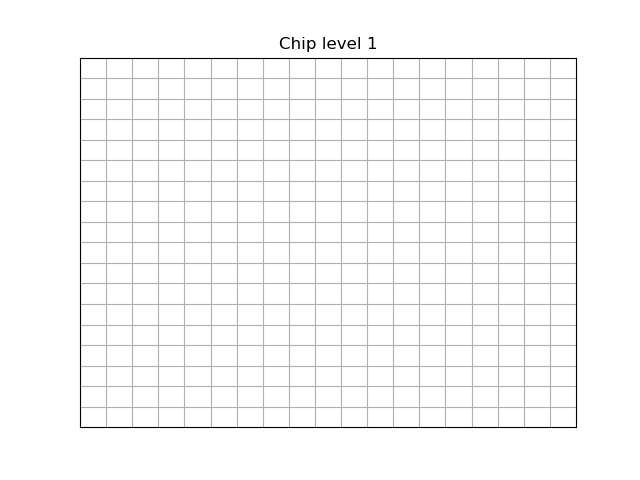
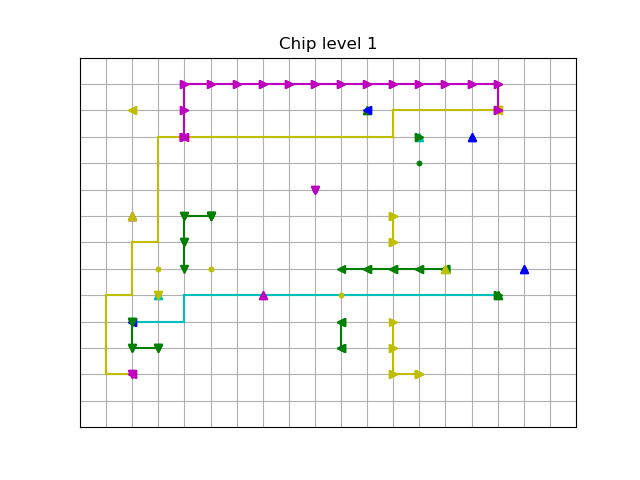
push

Changed region(s): [[0.125, 0.375, 0.9062, 0.8125], [0.125, 0.1562, 0.9062, 0.3438]]

diff --git a/main.py b/main.py
@@ -34,9 +34,9 @@ def main():
 					  "both" : (greedy, a_star)}
 	circuitsdict = {"small" : circuits.circuit_0, "large": circuits.circuit_1,
 					"both" : (circuits.circuit_0, circuits.circuit_1)}
-	netlistsdict = {1 : netlists.netlist_1, 2 : netlists.netlist_2,
-					3: netlists.netlist_3, 4 : netlists.netlist_4,
-					5: netlists.netlist_5, 6 : netlists.netlist_6,
+	netlistsdict = {"1" : netlists.netlist_1, "2" : netlists.netlist_2,
+					"3": netlists.netlist_3, "4" : netlists.netlist_4,
+					"5": netlists.netlist_5, "6" : netlists.netlist_6,
 					"small" : (netlists.netlist_1, netlists.netlist_2,
 							 netlists.netlist_3),
 					"large" : (netlists.netlist_4, netlists.netlist_5,
@@ -82,10 +82,11 @@ def main():
 		netlistslist = [(netlistsdict[args.netlist][i], L_netlists[i]) for i in range(len(netlistsdict[args.netlist]))]
 	elif (argsdict["netlist"]) == "large":
 		netlistslist = [(netlistsdict[args.netlist][i], L_netlists[i+3]) for i in range(len(netlistsdict[args.netlist]))]
+		print(netlistslist)
 	elif (argsdict["netlist"]) == "small":
 		netlistslist = [(netlistsdict[args.netlist][i], L_netlists[i]) for i in range(len(netlistsdict[args.netlist]))]
 	else:
-		netlists.append(argsdict[args.netlist])
+		netlistslist.append((netlistsdict[args.netlist], int(args.netlist)))
 
 	do_visualization = False
 	if argsdict["visualization"] == "true":
@@ -100,17 +101,19 @@ def main():
 		state space size and upper/lower bounds for given chip and netlist
 	"""
 
+	is_compatible = False
 	for circuit in circuitslist:
 		for netlist in netlistslist:
-			if (circuit[1] == "small" and (netlist[1] == 1 or netlist[1] == 2 or netlist[1] == 3)) or (circuit[1] == "large" and (netlist[1] == 4 or netlist[1] == 5 or netlist[1] == 6)):
+			if (circuit[1] == "both" or circuit[1] == "small" and (netlist[1] == 1 or netlist[1] == 2 or netlist[1] == 3)) or (circuit[1] == "large" and (netlist[1] == 4 or netlist[1] == 5 or netlist[1] == 6)):
 				width, height = chip_dimensionsdict[circuit[1]]
 				print("Calculating state space for circuit " + circuit[1] +
 					  " and netlist " + str(netlist[1]))
 				state_space(circuit[0], width, height, netlist[0])
 				print()
-			else:
-				print("No compatible circuits and netlists selected! Run main.py -h for help")
-				exit(1)
+				is_compatible = True
+	if is_compatible == False:
+		print("No compatible circuits and netlists selected! Run main.py -h for help")
+		exit(1)
 
 	"""
 		run desired algorithm
@@ -124,7 +127,9 @@ def main():
 					population_size = 20
 					if algorithm == a_star:
 						netlist, fitness = make_netlist(population_size, circuit[0], width, height, algorithm, netlist[0])
-						total_cost = test_algorithm(circuit[0], width, height, netlist[0], algorithm, do_visualization, True)
+						total_cost = upper_bound(Chip(circuit[0], width, height)) - fitness
+						total_cost = test_algorithm(circuit[0], width, height, netlist, algorithm, do_visualization)
+						#total_cost = test_algorithm(circuit[0], width, height, netlist[0], algorithm, do_visualization, True)
 					else:
 						total_cost = test_algorithm(circuit[0], width, height, netlist[0], algorithm, do_visualization)
 					# test algorithm with netlist obtained from genetic algorithm

diff --git a/code/algorithms/greedy.py b/code/algorithms/greedy.py
@@ -1,4 +1,5 @@
 from shared_functions import *
+import classChip
 
 x, y, z = 0, 0, 0 		# global variables
 
@@ -16,8 +17,17 @@ def move(coordinates, chip):
 		if chip.nodes.get(id) is None:
 			chip.init_nodes(z)
 		chip.nodes.get(id).is_free = False
+	return(chip.nodes.get(id))
 
 def greedy(chip, net, start_layer = 0):
+
+	start, goal = chip.circuit[net[0]] + (start_layer,), chip.circuit[net[1]] + (start_layer,)
+	shortest_path = []
+	shortest_path.append(start)
+	for i in range(0, start_layer + 1):
+		shortest_path.append(chip.circuit[net[1]] + (i,))
+
+	node = None
 	net_cost = 0
 	global x, y, z
 	x = chip.circuit[net[0]][0]
@@ -28,17 +38,25 @@ def greedy(chip, net, start_layer = 0):
 
 	while (x != end_x or y != end_y or z != 0) and z <= chip.levels:
 		if x < end_x:
-			move((x + 1, y, z), chip)
+			node = move((x + 1, y, z), chip)
 		elif x > end_x:
-			move((x - 1, y, z), chip)
+			node = move((x - 1, y, z), chip)
 		elif y < end_y:
-			move((x, y + 1, z), chip)
+			node = move((x, y + 1, z), chip)
 		elif y > end_y:
-			move((x, y - 1, z), chip)
+			node = move((x, y - 1, z), chip)
 		else:
 			z -= 1
 			id = str(x) + ", " + str(y) + ", " + str(z)
-			chip.nodes.get(id).is_free = False
+			node = chip.nodes.get(id)
+			node.is_free = False
+		shortest_path.append(node.coordinates)
 		net_cost += 1
+
+	# append shortest_path to chip.paths
+	for i in range(start_layer, 0, -1):
+		shortest_path.append(chip.circuit[net[0]] + (i,))
+	shortest_path.append(goal)
+	chip.paths.append(classChip.Path(net, shortest_path))
 
 	return net_cost

diff --git a/code/algorithms/a_star.py b/code/algorithms/a_star.py
@@ -22,9 +22,9 @@ def a_star(chip, net, random_layer = 0):
 	start_layer = 0
 	if distance(chip.circuit[net[0]], chip.circuit[net[1]]) > 6:
 		start_layer = random_layer
-	for i in range(start_layer):
-		chip.walls.append(chip.circuit[net[0]] + (i,))
-		chip.walls.append(chip.circuit[net[1]] + (i,))
+	# for i in range(start_layer):
+	# 	chip.walls.append(chip.circuit[net[0]] + (i,))
+	# 	chip.walls.append(chip.circuit[net[1]] + (i,))
 	start, goal = chip.circuit[net[0]] + (start_layer,), chip.circuit[net[1]] + (start_layer,)
 	queue = PriorityQueue()
 	queue.put(start, 0)
@@ -54,6 +54,7 @@ def a_star(chip, net, random_layer = 0):
 	chip.walls += shortest_path
 	for i in range(start_layer, 0, -1):
 		shortest_path.append(chip.circuit[net[0]] + (i,))
+	chip.walls += shortest_path
 
 	# store path for this net in new Path object and append to chip object
 	chip.paths.append(classChip.Path(net, shortest_path))
